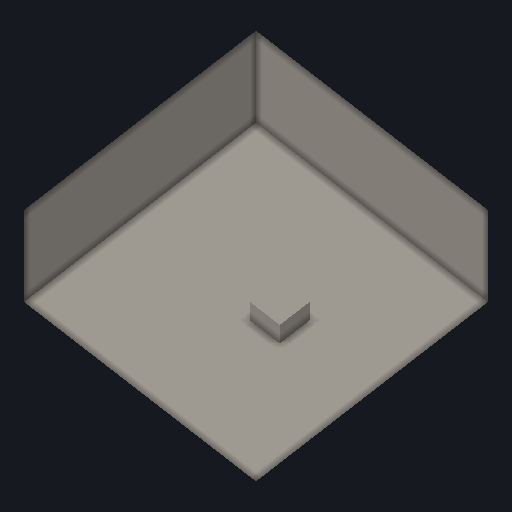
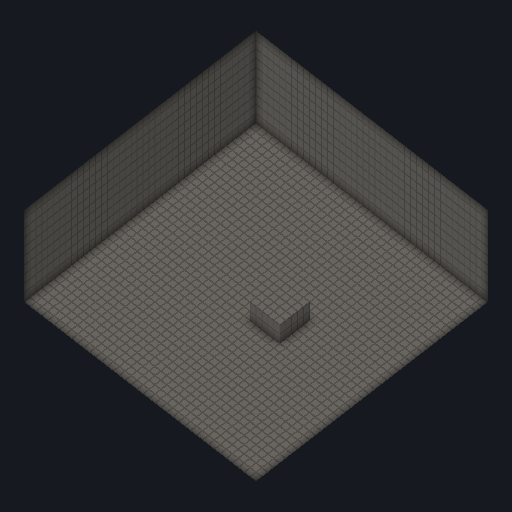
feat(render3d): the plain mesh path can sample a texture too
The isometric view drew through the pipeline with no sampler, so the
sample's headline picture showed a world made of flat planes while the
game showed one made of blocks. Two pictures of one world that disagree
about what the world is made of are worse than either alone.

No matrix and no fade on this pair: these positions are already clip
space, so `w` is one everywhere and a fade computed from it would be a
constant tint. A caller that wants distance here has projected the world
itself and knows the distances it used.

The per-vertex layout is shared with every other mesh pair, which is what
lets one scene feed any of them — the isometric builder changed by one
call, from a shaded quad to one with coordinates.

Caught while writing this: the compile record's SDK path lost a backslash
to a shell heredoc again, turning `\1` into the byte it names. The
workspace hygiene check found it, which is the whole reason it was widened
from two known symptoms to the class.

diff --git a/crates/render3d/src/gpu.rs b/crates/render3d/src/gpu.rs
@@ -249,6 +249,69 @@ impl Camera {
     }
 }
 
+/// Draws indexed clip-space geometry, depth-tested, sampling a texture.
+///
+/// [`MeshRenderer`] with a sampler: the texel at each vertex's coordinate
+/// multiplies the interpolated colour. No camera and no distance fade —
+/// positions are clip space already, so there is no view distance to fade
+/// by, and a caller that wants one has projected the world itself.
+pub struct TexturedMeshRenderer {
+    pipeline: RenderPipeline,
+}
+
+impl TexturedMeshRenderer {
+    /// Build the pipeline and upload `pixels` as the texture it samples.
+    ///
+    /// `pixels` is RGBA8, row-major, `extent.width * extent.height * 4`
+    /// bytes long.
+    ///
+    /// # Errors
+    ///
+    /// As [`MeshRenderer::new`], plus a refusal to create the texture or
+    /// the sampler.
+    pub fn new(
+        device: &Device,
+        format: TargetFormat,
+        extent: renew_rhi::Extent,
+        pixels: &[u8],
+    ) -> Result<Self, Render3dError> {
+        let texture = device
+            .create_texture(&renew_rhi::TextureDesc::new(extent, pixels))
+            .map_err(Render3dError::Texture)?;
+        let sampler = device.create_sampler(&renew_rhi::SamplerDesc::atlas())?;
+        let pipeline = device.create_pipeline(
+            &PipelineDesc::mesh(builtin::MESH_TEXTURED, format, LAYOUT)
+                .texture(std::rc::Rc::new(texture), std::rc::Rc::new(sampler))
+                .depth_state(renew_rhi::DepthState::read_write()),
+        )?;
+        Ok(Self { pipeline })
+    }
+
+    /// Upload `scene` into geometry the GPU can draw.
+    ///
+    /// Positions are **clip space**, as [`MeshRenderer::upload`].
+    ///
+    /// # Errors
+    ///
+    /// As [`MeshRenderer::upload`].
+    pub fn upload(&self, device: &Device, scene: &Scene) -> Result<Mesh, Render3dError> {
+        upload_scene(device, scene)
+    }
+
+    /// The draw for `mesh`, ready to sit in a pass.
+    #[must_use]
+    pub fn item<'a>(&'a self, mesh: &'a Mesh) -> Item<'a> {
+        Item::new(&self.pipeline).mesh(mesh)
+    }
+}
+
+impl core::fmt::Debug for TexturedMeshRenderer {
+    fn fmt(&self, f: &mut core::fmt::Formatter<'_>) -> core::fmt::Result {
+        f.debug_struct("TexturedMeshRenderer")
+            .finish_non_exhaustive()
+    }
+}
+
 /// Draws indexed geometry through a camera, depth-tested, sampling a
 /// texture.
 ///

diff --git a/samples/cube/src/render.rs b/samples/cube/src/render.rs
@@ -11,7 +11,8 @@
 //! all three are pure and tested without a device.
 
 use renew_render3d::{
-    Camera as RenderCamera, MeshRenderer, Scene, TexturedCameraRenderer, attachment, pass,
+    Camera as RenderCamera, MeshRenderer, Scene, TexturedCameraRenderer, TexturedMeshRenderer,
+    attachment, pass,
 };
 use renew_rhi::{Color, Device, DeviceDesc, Extent, RenderDesc, TargetFormat, Validation};
 use renew_sample_cube_world::grid::{Cell, Grid};
@@ -116,8 +117,16 @@ pub fn draw_clip_space(scene: &Scene) -> Result<Vec<u8>, RenderError> {
     let mut target = device
         .create_offscreen_target(extent)
         .map_err(|error| RenderError::Refused(error.to_string()))?;
-    let renderer = MeshRenderer::new(&device, TargetFormat::Rgba8Unorm)
-        .map_err(|error| RenderError::Refused(error.to_string()))?;
+    let renderer = TexturedMeshRenderer::new(
+        &device,
+        TargetFormat::Rgba8Unorm,
+        Extent {
+            width: crate::atlas::WIDTH,
+            height: crate::atlas::HEIGHT,
+        },
+        &crate::atlas::pixels(),
+    )
+    .map_err(|error| RenderError::Refused(error.to_string()))?;
     let mesh = renderer
         .upload(&device, scene)
         .map_err(|error| RenderError::Refused(error.to_string()))?;
@@ -163,7 +172,7 @@ pub fn build(grid: &Grid) -> Scene {
                 paint[3],
             ]
         });
-        scene.quad_shaded(
+        scene.quad_uv(
             [
                 view.project(corners[0]),
                 view.project(corners[1]),
@@ -171,6 +180,7 @@ pub fn build(grid: &Grid) -> Scene {
                 view.project(corners[3]),
             ],
             shaded,
+            crate::atlas::tile_uv(crate::atlas::tile_for(quad.face)),
         );
     }
     scene

diff --git a/crates/rhi/src/lib.rs b/crates/rhi/src/lib.rs
@@ -113,6 +113,25 @@ pub mod builtin {
     /// module reads the shader source and fails if the two disagree.
     pub const HORIZON: [f32; 3] = [0.09, 0.10, 0.13];
 
+    /// Vertex stage SPIR-V for the plain mesh path with a texture.
+    pub static MESH_TEXTURED_VS_SPV: &[u8] = include_bytes!("../shaders/mesh_textured.vert.spv");
+    /// Fragment stage SPIR-V sampling set 0, binding 0 and tinting by the
+    /// interpolated vertex colour.
+    pub static MESH_TEXTURED_FS_SPV: &[u8] = include_bytes!("../shaders/mesh_textured.frag.spv");
+
+    /// The plain mesh pair with a texture: **clip-space** positions,
+    /// colours and texture coordinates per vertex, and a combined image
+    /// sampler at set 0, binding 0.
+    ///
+    /// No matrix and no distance fade: positions here are already clip
+    /// space, so there is no view distance to fade by. The per-vertex
+    /// layout is [`MESH_LAYOUT`], shared with every other mesh pair,
+    /// which is what lets one scene feed any of them.
+    pub const MESH_TEXTURED: crate::MeshShaders<'static> = crate::MeshShaders {
+        vertex: MESH_TEXTURED_VS_SPV,
+        fragment: MESH_TEXTURED_FS_SPV,
+    };
+
     /// Vertex stage SPIR-V for the camera mesh path with a texture.
     pub static MESH_CAMERA_TEXTURED_VS_SPV: &[u8] =
         include_bytes!("../shaders/mesh_camera_textured.vert.spv");

diff --git a/crates/render3d/src/lib.rs b/crates/render3d/src/lib.rs
@@ -41,7 +41,7 @@ mod gpu;
 mod scene;
 
 pub use gpu::{
-    Camera, CameraRenderer, MeshRenderer, Render3dError, TexturedCameraRenderer, attachment,
-    depth_attachment, pass,
+    Camera, CameraRenderer, MeshRenderer, Render3dError, TexturedCameraRenderer,
+    TexturedMeshRenderer, attachment, depth_attachment, pass,
 };
 pub use scene::Scene;

diff --git a/crates/rhi/shaders/README.md b/crates/rhi/shaders/README.md
@@ -182,7 +182,7 @@ The camera mesh path with a texture: the same geometry and matrix as
 and a combined image sampler at set 0, binding 0.
 
 ```
-> C:\VulkanSDK.4.328.1\Bin\glslc.exe --version
+> C:\VulkanSDK\1.4.328.1\Bin\glslc.exe --version
 shaderc v2023.8 v2025.3-10-gc7e73e8
 spirv-tools v2025.4 v2022.4-970-g19042c89
 glslang 11.1.0-1302-gd213562e
@@ -207,3 +207,22 @@ shared, because GLSL has no way to share them and two pipelines drawing
 one world must fade alike or the seam between them shows. A test in the
 rendering crate pins the horizon colour against its Rust constant; the
 fade distance is pinned by nothing but this sentence.
+
+## mesh_textured.vert and .frag - compiled 2026-08-06
+
+The plain mesh path with a texture: clip-space positions drawn straight,
+plus the coordinate the fragment stage samples with, and a combined image
+sampler at set 0, binding 0.
+
+```
+> glslc -O mesh_textured.vert -o mesh_textured.vert.spv
+> glslc -O mesh_textured.frag -o mesh_textured.frag.spv
+```
+
+Same toolchain and transcript as the entry above. 900 bytes and 856
+bytes, both recompiled and compared against the committed blobs.
+
+**No matrix and no fade here, unlike the camera pair.** These positions
+are already clip space, so `w` is one everywhere and a fade computed from
+it would be a constant tint. A caller that wants distance on this path has
+projected the world itself and knows the distances it used.

diff --git a/samples/cube/README.md b/samples/cube/README.md
@@ -412,6 +412,12 @@ cargo run -p renew-sample-cube --features render --bin cube -- --render arena.pn
 Either command draws it: the isometric view is what `--render` draws when
 no `--view` is given, and naming it changes nothing.
 
+**The isometric view samples the same atlas as the game**, through the
+plain mesh pipeline rather than the camera one: its positions are already
+clip space, so that pair has no matrix and no distance fade. Two pictures
+of one world that disagreed about what the world is made of would be
+worse than either alone.
+
 **The view is a fixed true isometric** -- a 45 degree turn and a 35.264
 degree tilt -- with no camera anywhere, because a camera is a later step.
 Every entry of that basis is a square root rather than a sine, which is
